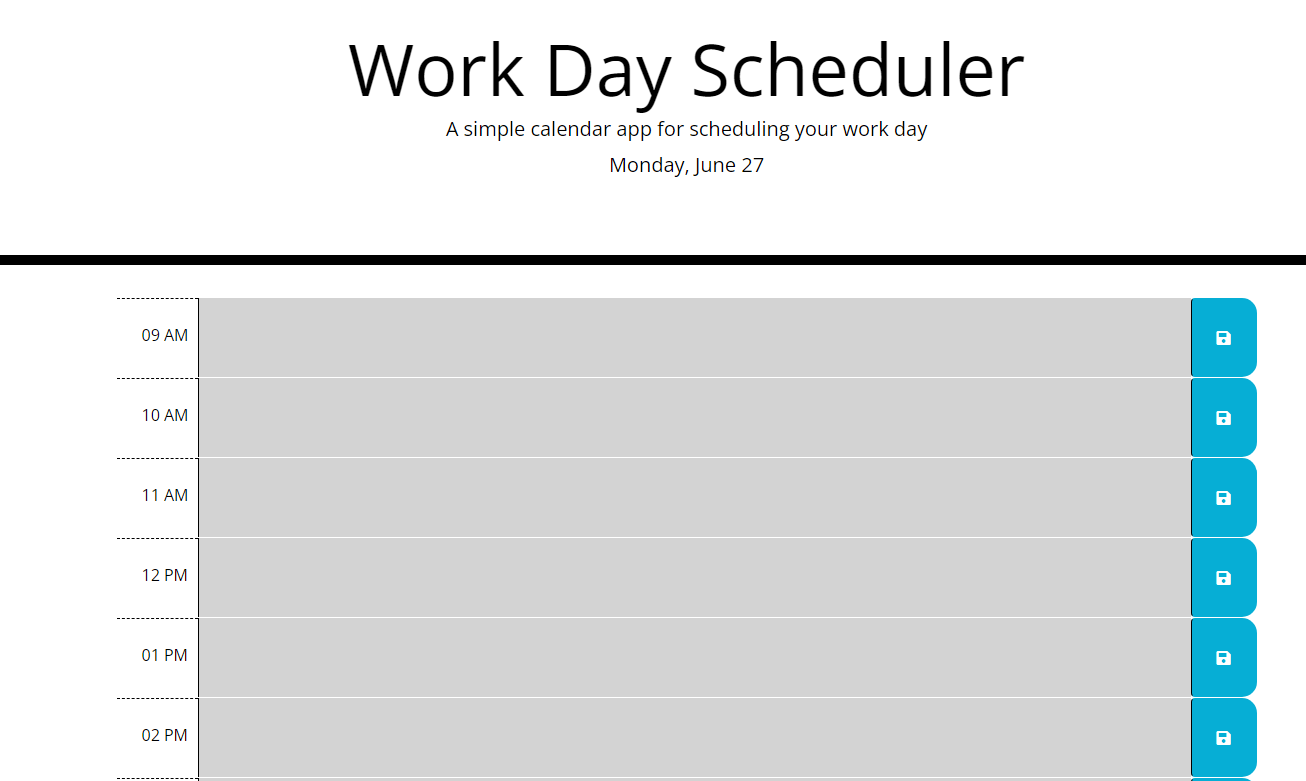
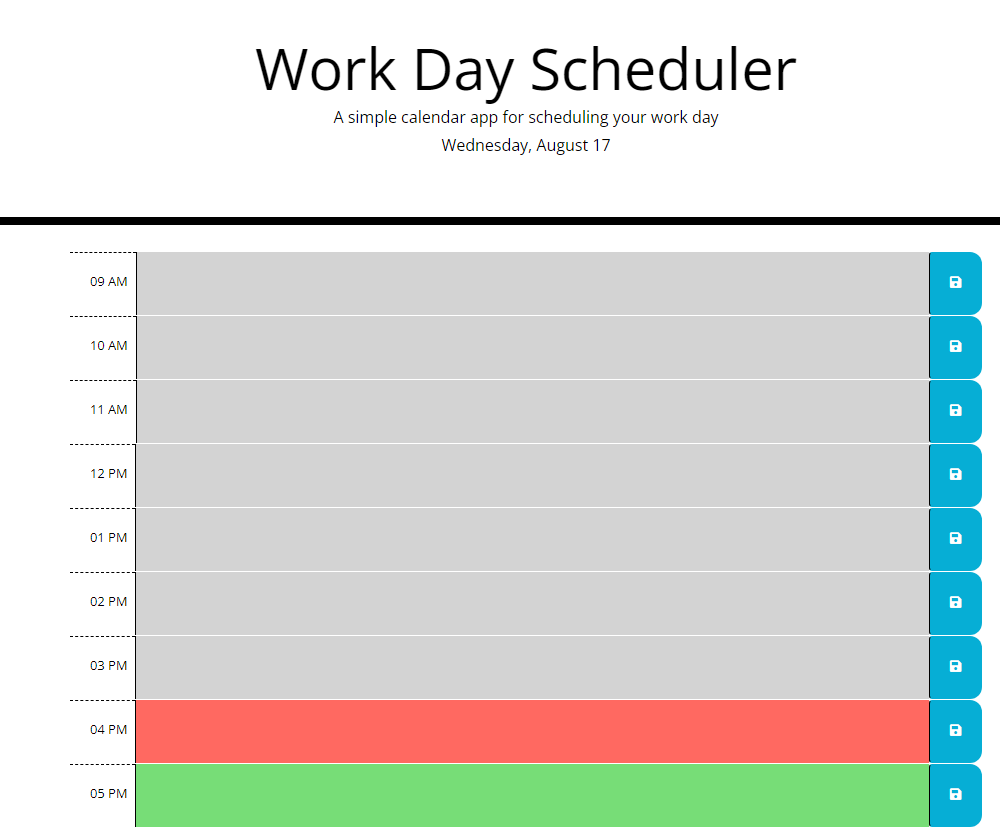
updated the readme

Changed region(s): [[0.0, 0.0615, 1.0, 1.0]]

diff --git a/README.md b/README.md
@@ -1,7 +1,28 @@
-# Work-day-scheduler
+# Work day scheduler [![License: MIT](https://img.shields.io/badge/License-MIT-yellow.svg)](https://opensource.org/licenses/MIT)
+  
 
-Schedule your working day and save each hour for each day.
+## Description
+Schedule your working day by typing in the alloted time slots and save each hour for each day. Each hour is colour coded. Grey being past hours, red is the current hour and green is the future hours. The app is deployed at https://seangenge.github.io/Work-day-scheduler/
 
-Deployed app: https://seangenge.github.io/Work-day-scheduler/
+## Table of Contents
+- [Installation](#installation)
+  
+- [Usage](#usage)
+  
+- [License](#license)
+  
+- [Questions](#questions)
 
 ![](./assets/work-day-scheduler.png)
+
+## Installation
+To install the necessary dependencies, run the following command:
+```
+  npm i
+```
+
+## License
+This project is licensed under the [MIT](https://opensource.org/licenses/MIT) license
+
+## Questions
+If you have any questions about the repo, open an issue or contact me directly at seangenge@gmail.com. You can find more of my work at [seangenge](https://github.com/seangenge).
